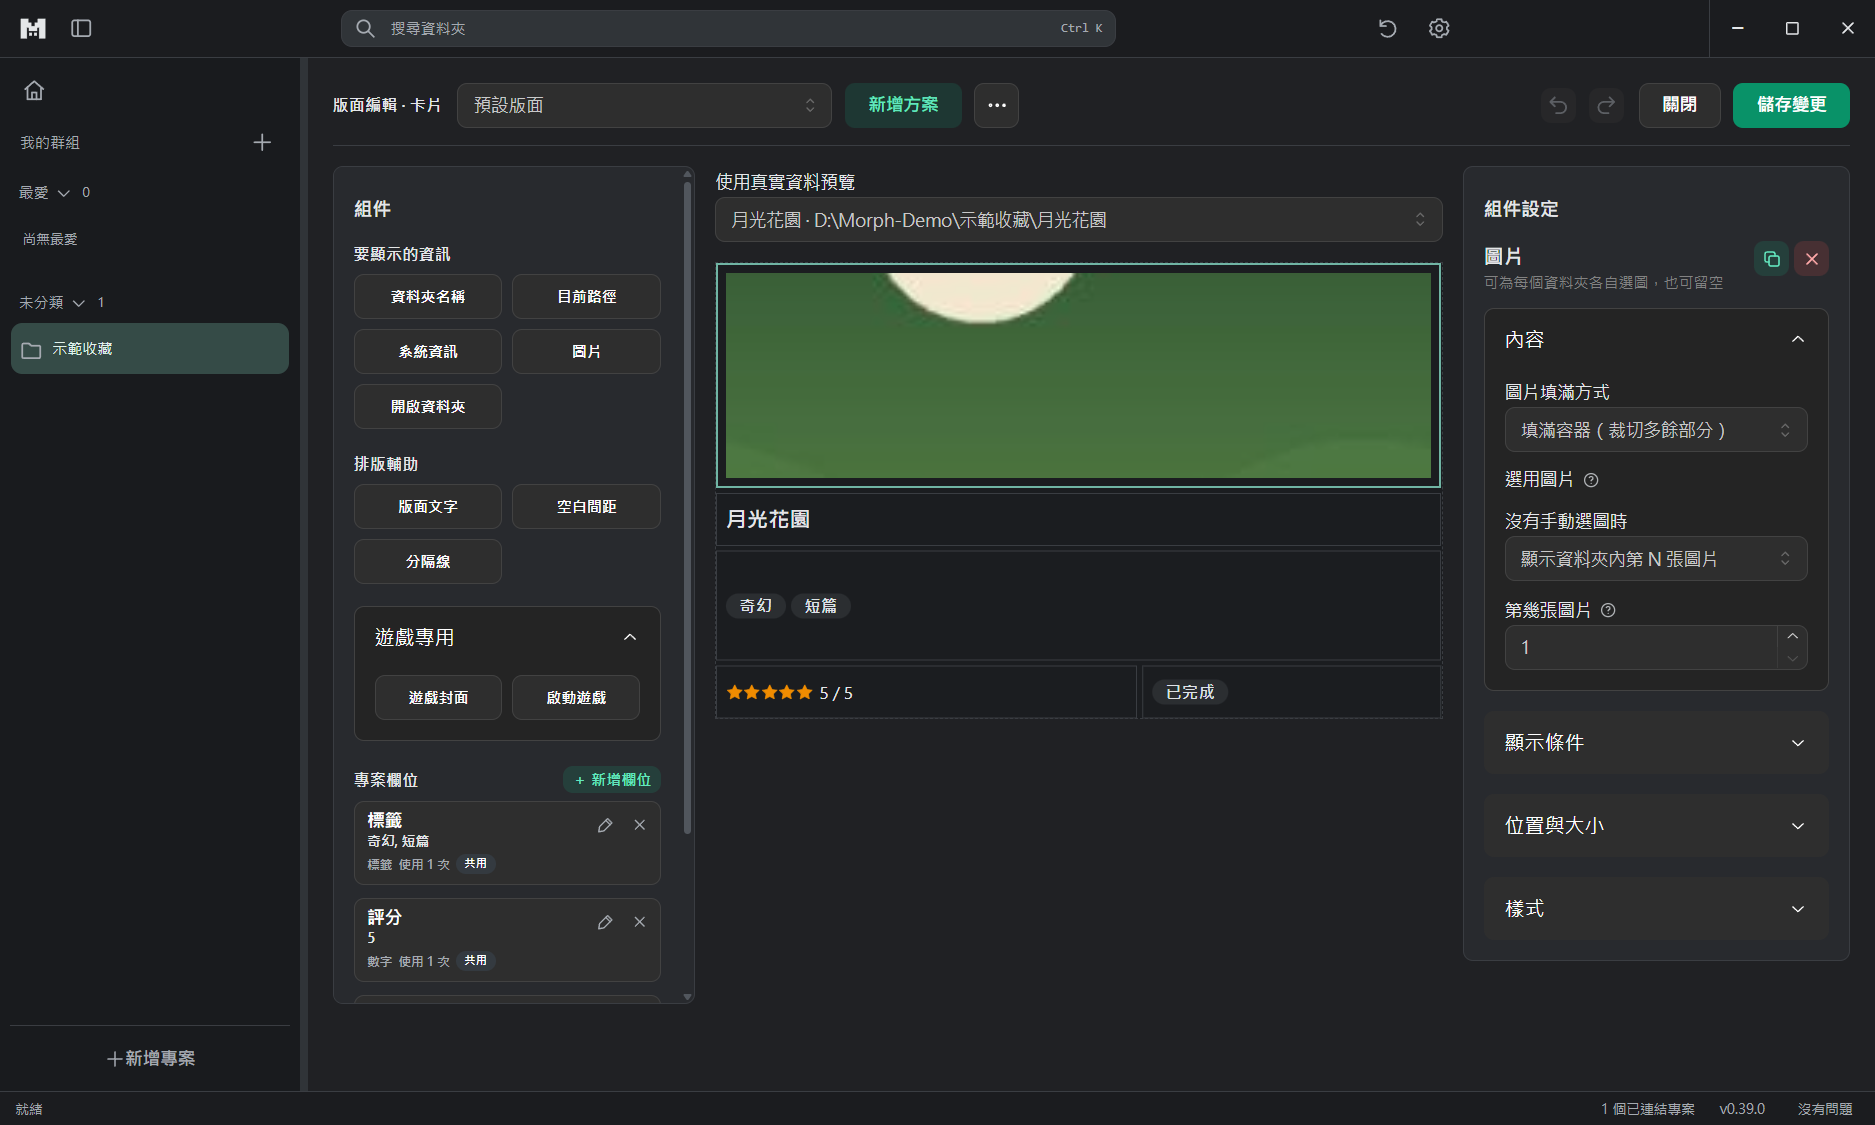
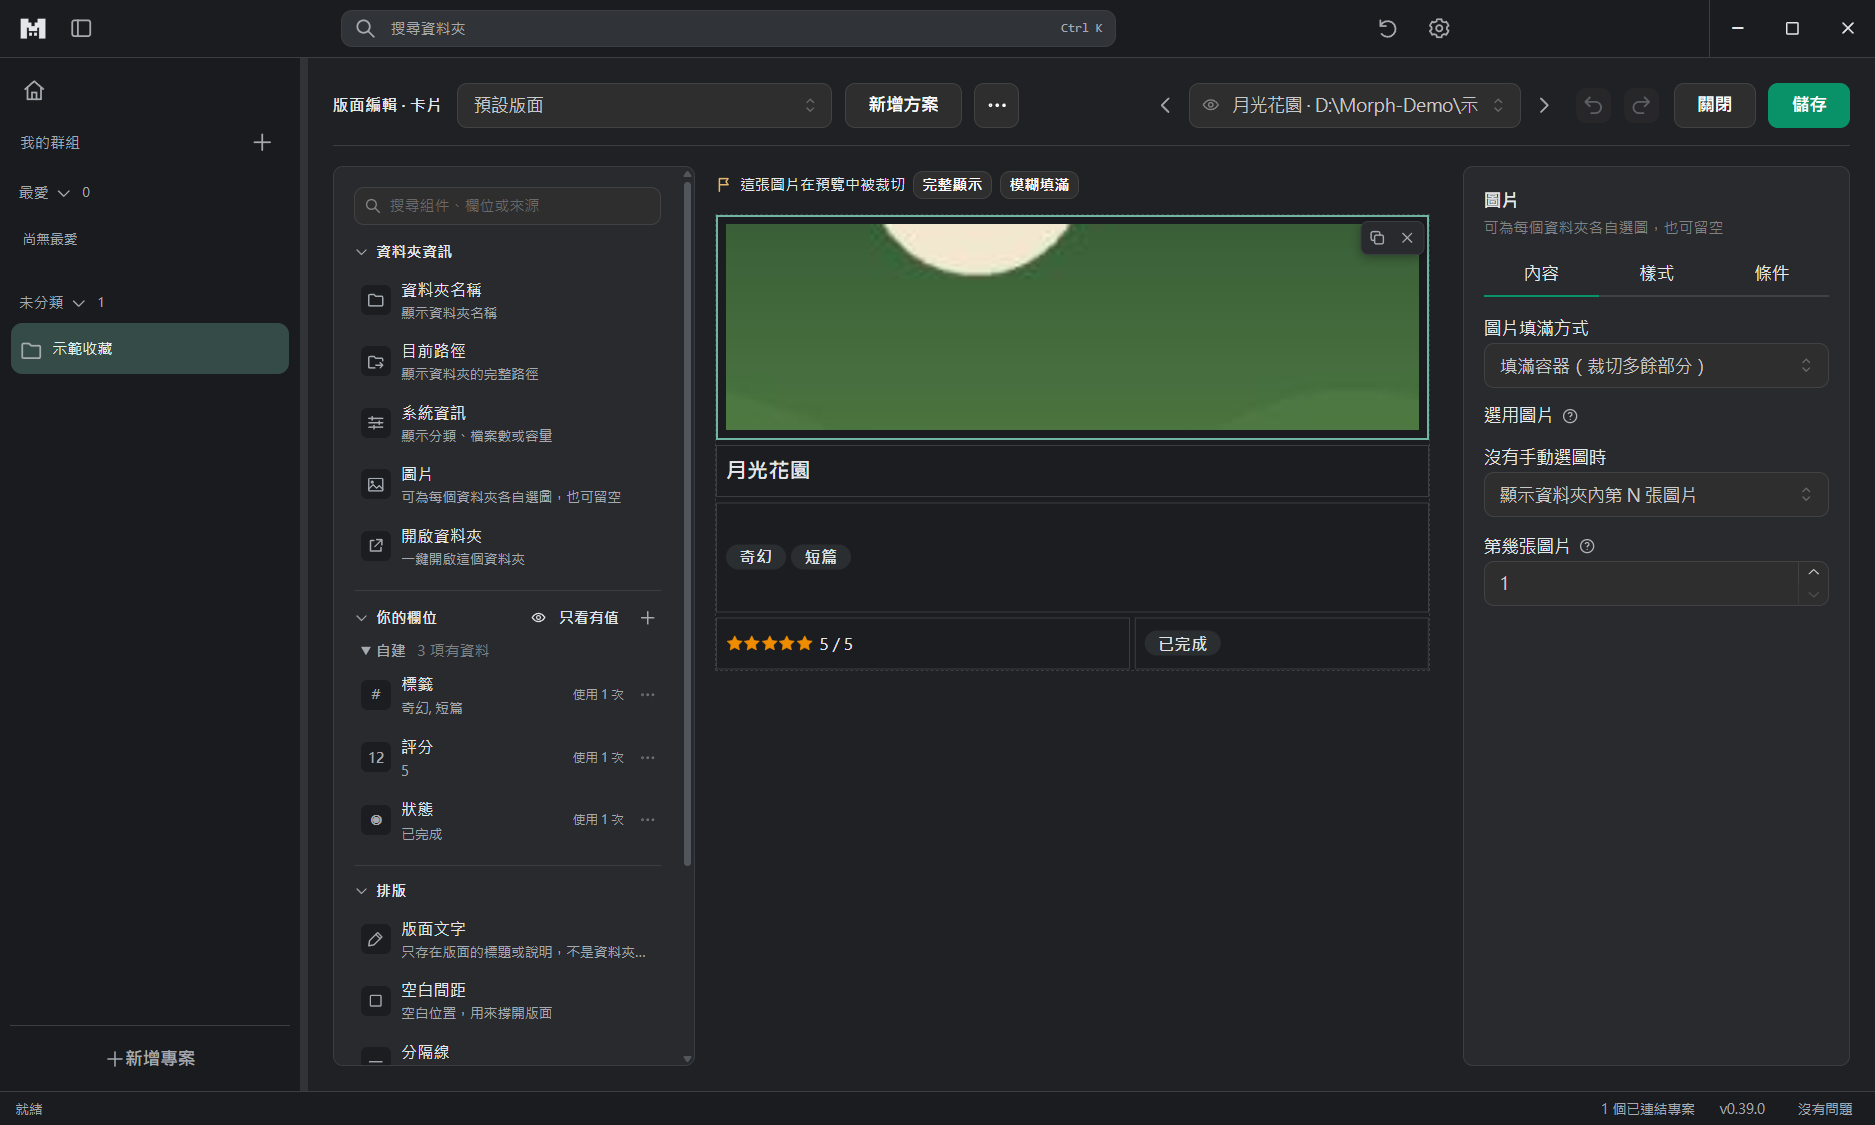
Accept R-221, R-222 and R-224: formal UI test, doc screenshot, clear the review list
- tests/editor-fields-ui.ts: source groups, not-added rows, search by source,
  create from search, value filter, reference only, text component with a tags
  fallback (order saved), folder settings keep 0/false and a cleared field.
- Fix: choosing the already-previewed folder cleared the preview.
- Regenerate docs/images/04-editor.png for the new editor.

diff --git a/tests/editor-fields-ui.ts b/tests/editor-fields-ui.ts
@@ -1,0 +1,184 @@
+import fs from 'node:fs/promises'
+import path from 'node:path'
+import assert from 'node:assert/strict'
+import { Library } from '../electron/library'
+import { folderFile, projectFile, readFolder, readJson } from '../electron/files'
+import type { Project } from '../shared/model'
+import { closeApp, launchApp, removeTestRoot, reportFailure } from './support/app'
+
+// The editor's "Your fields" section (source groups, not-yet-added rows, search, create from search, value filter,
+// reference only), a text component with a tags fallback (order, conversion, saved order) and the folder settings
+// keeping 0 / false and a field being cleared visible. Folder records are never rewritten by the editor.
+const base = path.resolve('.test-output')
+await fs.mkdir(base, { recursive: true })
+const root = await fs.mkdtemp(path.join(base, 'editor-fields-ui-')),
+  media = path.join(root, 'Library'),
+  child = path.join(media, 'B'),
+  local = path.join(root, 'local')
+await fs.mkdir(child, { recursive: true })
+const library = new Library(local, undefined, false)
+await library.init()
+await library.create(media, { name: 'Fields', scanAll: true, depth: { mode: 'through', level: 1 } })
+const project = library.snapshot().projects[0].project!
+await library.saveProject({
+  ...project,
+  fieldBindings: [
+    { alias: 'Note', attributeId: 'note', type: 'string' },
+    { alias: 'Score', attributeId: 'score', type: 'number' },
+    { alias: 'Flag', attributeId: 'flag', type: 'boolean' },
+  ],
+})
+const rootRecord = await readFolder(media)
+rootRecord.attributes = [
+  { attributeId: 'note', key: 'Note', type: 'string', value: 'hello', source: 'manual' },
+  { attributeId: 'score', key: 'Score', type: 'number', value: 0, source: 'manual' },
+  { attributeId: 'flag', key: 'Flag', type: 'boolean', value: false, source: 'manual' },
+  { attributeId: 'genre', key: 'Genre', type: 'tags', value: ['Action, RPG'], source: 'manual' },
+  { attributeId: 'dlsite-title', key: 'TITLE', type: 'string', value: 'DL Root', source: 'manual' },
+]
+await fs.writeFile(folderFile(media), JSON.stringify(rootRecord))
+await library.scan()
+const childRecord = await readFolder(child)
+childRecord.attributes = [
+  { attributeId: 'steam-name', key: 'NAME', type: 'string', value: 'Steam B', source: 'manual' },
+  { attributeId: 'genre', key: 'Genre', type: 'tags', value: ['Puzzle'], source: 'manual' },
+]
+await fs.writeFile(folderFile(child), JSON.stringify(childRecord))
+await library.scan()
+const records = async () =>
+  Promise.all([fs.readFile(folderFile(media)), fs.readFile(folderFile(child))])
+const originalRecords = await records()
+
+const errors: string[] = []
+const { app, page } = await launchApp(local, errors, { width: 1500, height: 950 })
+let passed = false
+try {
+  const button = (name: string) => page.getByRole('button', { name, exact: true })
+  await page.getByRole('button', { name: '開啟專案 Fields', exact: true }).first().click()
+  await button('編輯版面').click()
+  await page.locator('.editor-page').waitFor()
+  const fields = page.locator('.project-field-palette')
+  const row = (name: string) =>
+    fields.locator('.palette-field').filter({ has: page.getByText(name, { exact: true }) })
+  const cells = () => page.locator('.editor-cell').count()
+
+  // Fields are grouped by source; fields only in folder records are rows marked "not added yet".
+  const groups = await fields.locator('.field-source-group > summary').allInnerTexts()
+  for (const source of ['DLsite', 'Steam', '自建'])
+    assert.ok(
+      groups.some((text) => text.startsWith(source)),
+      source + ' group: ' + groups
+    )
+  await row('TITLE').getByText('尚未加入', { exact: true }).waitFor()
+  assert.match((await row('Note').getAttribute('class'))!, /palette-field(?! is-unbound)/)
+
+  // One search box matches field names and source names.
+  const search = page.getByRole('textbox', { name: '搜尋組件與欄位', exact: true })
+  await search.fill('Steam')
+  assert.deepEqual(
+    await fields.locator('.palette-field .palette-field-name').allInnerTexts(),
+    ['NAME'],
+    'searching a source name keeps only its fields'
+  )
+  // A search that finds no field offers to create it with that name.
+  await search.fill('Zzz')
+  await button('＋ 建立欄位「Zzz」').click()
+  const form = page.getByRole('form', { name: '新增欄位' })
+  assert.equal(await form.getByLabel('欄位名稱').inputValue(), 'Zzz')
+  await form.getByRole('button', { name: '新增欄位', exact: true }).click()
+  await form.waitFor({ state: 'hidden' })
+  assert.equal(await search.inputValue(), '', 'the search is cleared after creating')
+  await row('Zzz').getByText('使用 0 次', { exact: true }).waitFor()
+
+  // The value filter on the section heading hides fields the previewed folder has no value for.
+  await page.getByRole('textbox', { name: '使用真實資料預覽', exact: true }).click()
+  await page.getByRole('option', { name: /^Library · / }).click()
+  await button('只看有值').click()
+  await fields.getByText(/^已隱藏 \d+ 個未填欄位$/).waitFor()
+  assert.equal(await row('NAME').count(), 0)
+  assert.equal(await row('TITLE').count(), 1)
+  await fields.getByRole('button', { name: '顯示全部', exact: true }).click()
+  await row('NAME').waitFor()
+  assert.equal(await button('只看有值').getAttribute('aria-pressed'), 'false')
+
+  // "Reference only" adds the field to the project without putting it on the card.
+  const before = await cells()
+  await button('欄位操作 TITLE').click()
+  await page.getByRole('menuitem', { name: '只引用欄位', exact: true }).click()
+  await row('TITLE').getByText('使用 0 次', { exact: true }).waitFor()
+  assert.equal(await cells(), before)
+
+  // A click on a not-yet-added field adds it and puts it on the card, selected.
+  await row('NAME').locator('.palette-row-main').click()
+  await page.waitForFunction(
+    (n) => document.querySelectorAll('.editor-cell').length === n + 1,
+    before
+  )
+  await row('NAME').getByText('使用 1 次', { exact: true }).waitFor()
+
+  // Text component with a tags fallback: the preview shows the tags as text, the order can be changed.
+  await page.getByRole('tab', { name: '內容', exact: true }).click()
+  await button('新增備用欄位').click()
+  await page.getByRole('textbox', { name: '第 2 順位欄位', exact: true }).click()
+  await page.getByRole('option', { name: /^Genre · 自建 · 標籤 → 文字$/ }).click()
+  await page.getByRole('status').filter({ hasText: '預覽中的「Library」顯示：Genre' }).waitFor()
+  const added = page.locator('.editor-cell.selected')
+  await added.getByText('Action, RPG').waitFor()
+  assert.equal(await button('找使用備用欄位的資料夾').isDisabled(), false)
+  await button('找使用備用欄位的資料夾').click()
+  assert.match(
+    await page.getByRole('textbox', { name: '使用真實資料預覽', exact: true }).inputValue(),
+    /^Library · /
+  )
+  const cellId = await added.getAttribute('data-cell-id')
+  await button('上移 Genre').click()
+  assert.match(
+    await page.getByRole('textbox', { name: '綁定欄位', exact: true }).inputValue(),
+    /^Genre/
+  )
+
+  await button('儲存').click()
+  await page.locator('.editor-page').waitFor({ state: 'hidden' })
+  const saved = (await readJson(projectFile(media, project.projectId))) as Project
+  const cell = saved.cells.find((c) => c.cellId === cellId)!
+  assert.equal(cell.attributeId, 'genre')
+  assert.deepEqual(cell.fallbackIds, ['steam-name'])
+  assert.ok(saved.fieldBindings.some((f) => f.attributeId === 'dlsite-title'))
+  assert.ok(saved.fieldBindings.some((f) => f.alias === 'Zzz'))
+  assert.deepEqual(await records(), originalRecords, 'the editor never rewrites folder records')
+
+  // Reopened, the order is kept.
+  await button('編輯版面').click()
+  await page.locator(`.editor-cell[data-cell-id="${cellId}"]`).click()
+  await page.getByRole('tab', { name: '內容', exact: true }).click()
+  assert.match(
+    await page.getByRole('textbox', { name: '綁定欄位', exact: true }).inputValue(),
+    /^Genre/
+  )
+  await page.getByRole('button', { name: /^(放棄變更|關閉)$/ }).click()
+  await page.locator('.editor-page').waitFor({ state: 'hidden' })
+
+  // Folder settings: 0 and false are values (shown without "show empty fields"); a field being cleared stays.
+  await button('目前資料夾設定').click()
+  const drawer = page.getByRole('region', { name: '資料夾設定 · Library', exact: true })
+  await drawer.waitFor()
+  assert.equal(await drawer.getByLabel('Score', { exact: true }).inputValue(), '0')
+  assert.equal(await drawer.getByRole('textbox', { name: 'Flag', exact: true }).inputValue(), '否')
+  const note = drawer.getByLabel('Note', { exact: true })
+  await note.fill('')
+  await page.waitForTimeout(200)
+  assert.equal(await note.isVisible(), true, 'a field being cleared does not disappear')
+
+  assert.deepEqual(errors, [])
+  passed = true
+  console.log(
+    'PASS editor fields: source groups, not-added rows, search, create from search, value filter, reference only, text with tags fallback order; folder settings keep 0/false and a cleared field. ' +
+      root
+  )
+} catch (error) {
+  await reportFailure(page, root)
+  throw error
+} finally {
+  await closeApp(app)
+  if (passed) await removeTestRoot(root)
+}

diff --git a/src/Editor.tsx b/src/Editor.tsx
@@ -767,6 +767,7 @@ export function Editor({
               },
             ]}
             searchable
+            allowDeselect={false}
             comboboxProps={{ width: 360, position: 'bottom-start' }}
             value={previewId ?? null}
             onChange={(v) => setPreviewId(v ?? undefined)}

diff --git a/docs/README.md b/docs/README.md
@@ -19,8 +19,8 @@
 | 漫畫閱讀器（`reader`） | [漫畫閱讀器](MANGA_VIEWER_DESIGN.md#漫畫閱讀器) | `src/Reader*` `shared/reader*` | `reader` `reader-ui` `media-scope-ui` |
 | 影片播放與字幕（`video`） | [播放控制](VIDEO_VIEWER_DESIGN.md#播放控制)、[播放生命週期](VIDEO_VIEWER_DESIGN.md#播放生命週期)、[拖入字幕與同步設定](VIDEO_VIEWER_DESIGN.md#拖入字幕與同步設定) | `src/Video*` `src/video-player.css` `shared/subtitles*` | `video-player-ui` `video-failure-ui` |
 | ZIP／CBZ／PDF（`documents`） | [zipcbz](DOCUMENT_VIEWER_DESIGN.md#zipcbz)、[pdf](DOCUMENT_VIEWER_DESIGN.md#pdf) | `src/DocumentViewer*` `electron/archive*` | `decided-media` `reader-ui` `decided-ui` |
-| CELL 編輯器、方案、欄位刪除（`editor`） | [資料與畫布](EDITOR_DESIGN.md#資料與畫布)、[方案管理](EDITOR_DESIGN.md#方案管理)、[自訂欄位刪除](EDITOR_DESIGN.md#自訂欄位刪除) | `src/Editor*` `src/editorDrag*` `src/editorKinds*` `src/commonFields*` `src/importedFieldLabels*` `src/fieldSources*` `shared/layouts*` | `decided` `cell-editor-ui` `field-edit-ui` `decided-ui` |
-| 卡片組件與欄位型別（`cells`） | [現行契約](CELL_CATALOG.md#現行契約)、[新增組件與型別](CELL_CATALOG.md#新增組件與型別) | `src/Card*` `src/CellStyleEditor*` `src/TagList*` `src/EnumColors*` `src/Fallback*` `src/cells.css` `src/themes/cellStyle*` `shared/cells*` `shared/fields*` | `cells` `cell-fallback` `model` `cell-editor-ui` `field-edit-ui` `cell-style-ui` `cell-scroll-ui` `image-nth-ui` `game-cover-cell-ui` `game-launch-cell-ui` `enum-add-option-ui` |
+| CELL 編輯器、方案、欄位刪除（`editor`） | [資料與畫布](EDITOR_DESIGN.md#資料與畫布)、[方案管理](EDITOR_DESIGN.md#方案管理)、[自訂欄位刪除](EDITOR_DESIGN.md#自訂欄位刪除) | `src/Editor*` `src/editorDrag*` `src/editorKinds*` `src/commonFields*` `src/importedFieldLabels*` `src/fieldSources*` `shared/layouts*` | `decided` `cell-editor-ui` `field-edit-ui` `editor-fields-ui` `decided-ui` |
+| 卡片組件與欄位型別（`cells`） | [現行契約](CELL_CATALOG.md#現行契約)、[新增組件與型別](CELL_CATALOG.md#新增組件與型別) | `src/Card*` `src/CellStyleEditor*` `src/TagList*` `src/EnumColors*` `src/Fallback*` `src/cells.css` `src/themes/cellStyle*` `shared/cells*` `shared/fields*` | `cells` `cell-fallback` `model` `cell-editor-ui` `field-edit-ui` `cell-style-ui` `cell-scroll-ui` `image-nth-ui` `game-cover-cell-ui` `game-launch-cell-ui` `enum-add-option-ui` `editor-fields-ui` |
 | 搜尋畫面、語法、索引（`search`） | [搜尋介面](SEARCH_DESIGN.md#搜尋介面)、[基本語法](SEARCH_DESIGN.md#基本語法)、[索引與保存](SEARCH_DESIGN.md#索引與保存) | `src/SearchDialog*` `src/search-dialog.css` `shared/query*` `shared/search*` `electron/search-index*` | `decided-media` `explorer` `search-dialog-ui` |
 | 遊戲畫面與啟動動作（`game`） | [1-已確認的遊戲內容頁](GAME_VIEWER_DESIGN.md#1-已確認的遊戲內容頁)、[5-路徑參數與執行責任](GAME_VIEWER_DESIGN.md#5-路徑參數與執行責任) | `src/GameActions*` `src/game-actions.css` `shared/launchArgs*` | `game-actions` `game-shortcut` `launch-args` `game-actions-ui` `game-launch-cell-ui` `game-folder-page-ui` |
 | 遊戲 ROOT 偵測與內部保護（`detection`） | [漏判誤判與-root-定位規則](GAME_ENGINE_DETECTION.md#漏判誤判與-root-定位規則)、[驗收與演進](GAME_ENGINE_DETECTION.md#驗收與演進) | `electron/game-detection*` `electron/library-scan*` `src/BoundaryFlag*` | `game-detection` `library` `problems-ui` `game-folder-page-ui` |

diff --git a/docs/WORK_ITEMS.md b/docs/WORK_ITEMS.md
@@ -14,13 +14,6 @@
 
 ## 待查收
 
-- **R-221** 共用與專案欄位來源分組、空值篩選與編輯器操作改善｜中｜一般｜無｜領域：editor、panel、cells｜依賴：無｜取代：無
-  驗收：編輯器那半（來源分組、搜尋、只看有值、只引用欄位）的畫面已由 R-224 取代，併入 R-224 一起查收。這裡只驗資料夾設定：展開未填欄位後可填寫，清空正在編輯的欄位不會消失；0／否仍顯示。畫面查收後補正式 UI 測試。
-- **R-222** 文字與標籤的跨型別備用來源｜中｜資料寫入｜設定｜領域：editor、cells、browse｜依賴：無｜取代：無
-  驗收：文字組件加入標籤來源，調整主要／備用順序，預覽顯示使用中來源及轉換；切成標籤時，整段文字（含逗號）仍是一個標籤。保存、重開後順序與呈現保持，原始欄位不改型別。用工具列預覽選單兩側的箭頭切換上一個／下一個預覽；選取有備用來源的組件時，在右側「內容」分頁備用欄位清單下方按「找使用備用欄位的資料夾」。畫面查收後補正式 UI 測試。
-- **R-224** 編輯器改版第一批：左右重整 ｜大｜一般｜無｜領域：editor｜依賴：無
-  驗收（約 30 秒）：開一個有欄位的專案 →「編輯版面」。①工具列一行：方案、預覽選單（含「極端情況」最長／最短、左右箭頭）、復原／重做、關閉與唯一主按鈕「儲存」。②左側四區同一標題樣式（資料夾資訊／你的欄位／排版／遊戲〔只在遊戲專案〕），每列圖示＋名稱＋次要資訊；資料夾裡尚未加入的欄位標「尚未加入」，點一下即加入卡片；改名／刪除在「⋯」。搜尋打一個不存在的名字 →「＋ 建立欄位『…』」帶入名稱。③選組件：上方浮出複製／移除；Ctrl+D、Delete 可用；畫布上方一行顯示截斷狀態。④右側內容／樣式／條件三分頁，換組件或重開編輯器仍停在上次分頁；位置與大小在「樣式 › 進階」；點畫布空白處或 Esc 顯示「整張卡片」。⑤（併入 R-221 編輯器那半）「你的欄位」依來源分組，引用後仍在原來源組下、滑鼠提示顯示來源與共用範圍；搜尋可比對名稱或來源名；按「你的欄位」標題列的「只看有值」後該區顯示隱藏數量，按「顯示全部」恢復；「⋯ › 只引用欄位」只加入欄位、不增加畫布組件。三主題與寬 900 窄窗都看一次。
-  五個常見操作請記步驟數：放欄位（搜尋→點一下）、建新欄位（搜尋→建立→名稱型別→新增→點一下）、改樣式（點組件→樣式分頁→調整）、換預覽（工具列選單或箭頭）、設多來源（點組件→內容分頁→加入備用欄位；R-226 前仍是備用來源）。
 
 ## 進行中
 

diff --git a/CHANGELOG.md b/CHANGELOG.md
@@ -17,6 +17,7 @@ The application version is independent of portable record `schemaVersion`.
 
 ## Unreleased
 
+- Fix: in the layout editor, choosing the folder that was already being previewed cleared the preview.
 - Layout editor, first batch of the redesign (R-224): one toolbar with layout, a preview menu (folders, longest/shortest values, previous/next), undo/redo and a single primary Save. The left materials panel has one search box and four sections in one style (Folder info, Your fields grouped by source with an "Only with values" toggle on its heading, Layout, Game); every row has an icon, a name and a secondary line, fields not yet added are just a row state, rename/delete moved into "⋯", and a search with no match offers "+ Create field". The canvas has a fixed status line for cut-off content and a floating copy/remove toolbar (Ctrl+D duplicates, Esc deselects). The right side has Content / Style / Condition tabs that remember the last tab, position and size under Style › Advanced, and a whole-card overview when nothing is selected.
 - Field UX: group shared and project fields by website, retain source labels after referencing, and add search (by name or source) and an "only with values" filter (the editor's look and layout were then redesigned in R-224). Folder settings hide empty fields while keeping cleared inputs available during editing. Main and fallback sources share one ordered list; text and tags can display each other's values without rewriting source data. Fix the cropped-picture outline incorrectly including blur-fill backgrounds.
 - Revert R-219 after review: cards use the fixed 12-column layout again, and the editor canvas follows its own available width. Remove the provisional `trimColumns` setting and card-width controls.

diff --git a/docs/EDITOR_DESIGN.md b/docs/EDITOR_DESIGN.md
@@ -1,6 +1,6 @@
 # CELL 編輯器
 
-> 最後確認：2026-11-05。積木（卡片版面）編輯器的現行規則。程式：`src/Editor.tsx`、`src/EditorPalette.tsx`、`src/EditorInspector.tsx`、`src/CellStyleEditor.tsx`、`shared/layouts.ts`；測試：`tests/cell-editor-ui.ts`、`tests/field-edit-ui.ts`、`tests/cell-style-ui.ts`、`tests/decided-ui.ts`。
+> 最後確認：2026-11-05。積木（卡片版面）編輯器的現行規則。程式：`src/Editor.tsx`、`src/EditorPalette.tsx`、`src/EditorInspector.tsx`、`src/CellStyleEditor.tsx`、`shared/layouts.ts`；測試：`tests/cell-editor-ui.ts`、`tests/field-edit-ui.ts`、`tests/editor-fields-ui.ts`、`tests/cell-style-ui.ts`、`tests/decided-ui.ts`。
 
 本頁持有模板編輯與編輯器內的方案管理行為；CELL 種類只列在 [CELL_CATALOG](CELL_CATALOG.md)，瀏覽時的 CARD 工具列與方案切換由 [工作區](WORKSPACE_REVISION.md) 持有。實作入口：[Editor](../src/Editor.tsx)、[Card](../src/Card.tsx)、[shared/layouts](../shared/layouts.ts)。
 
